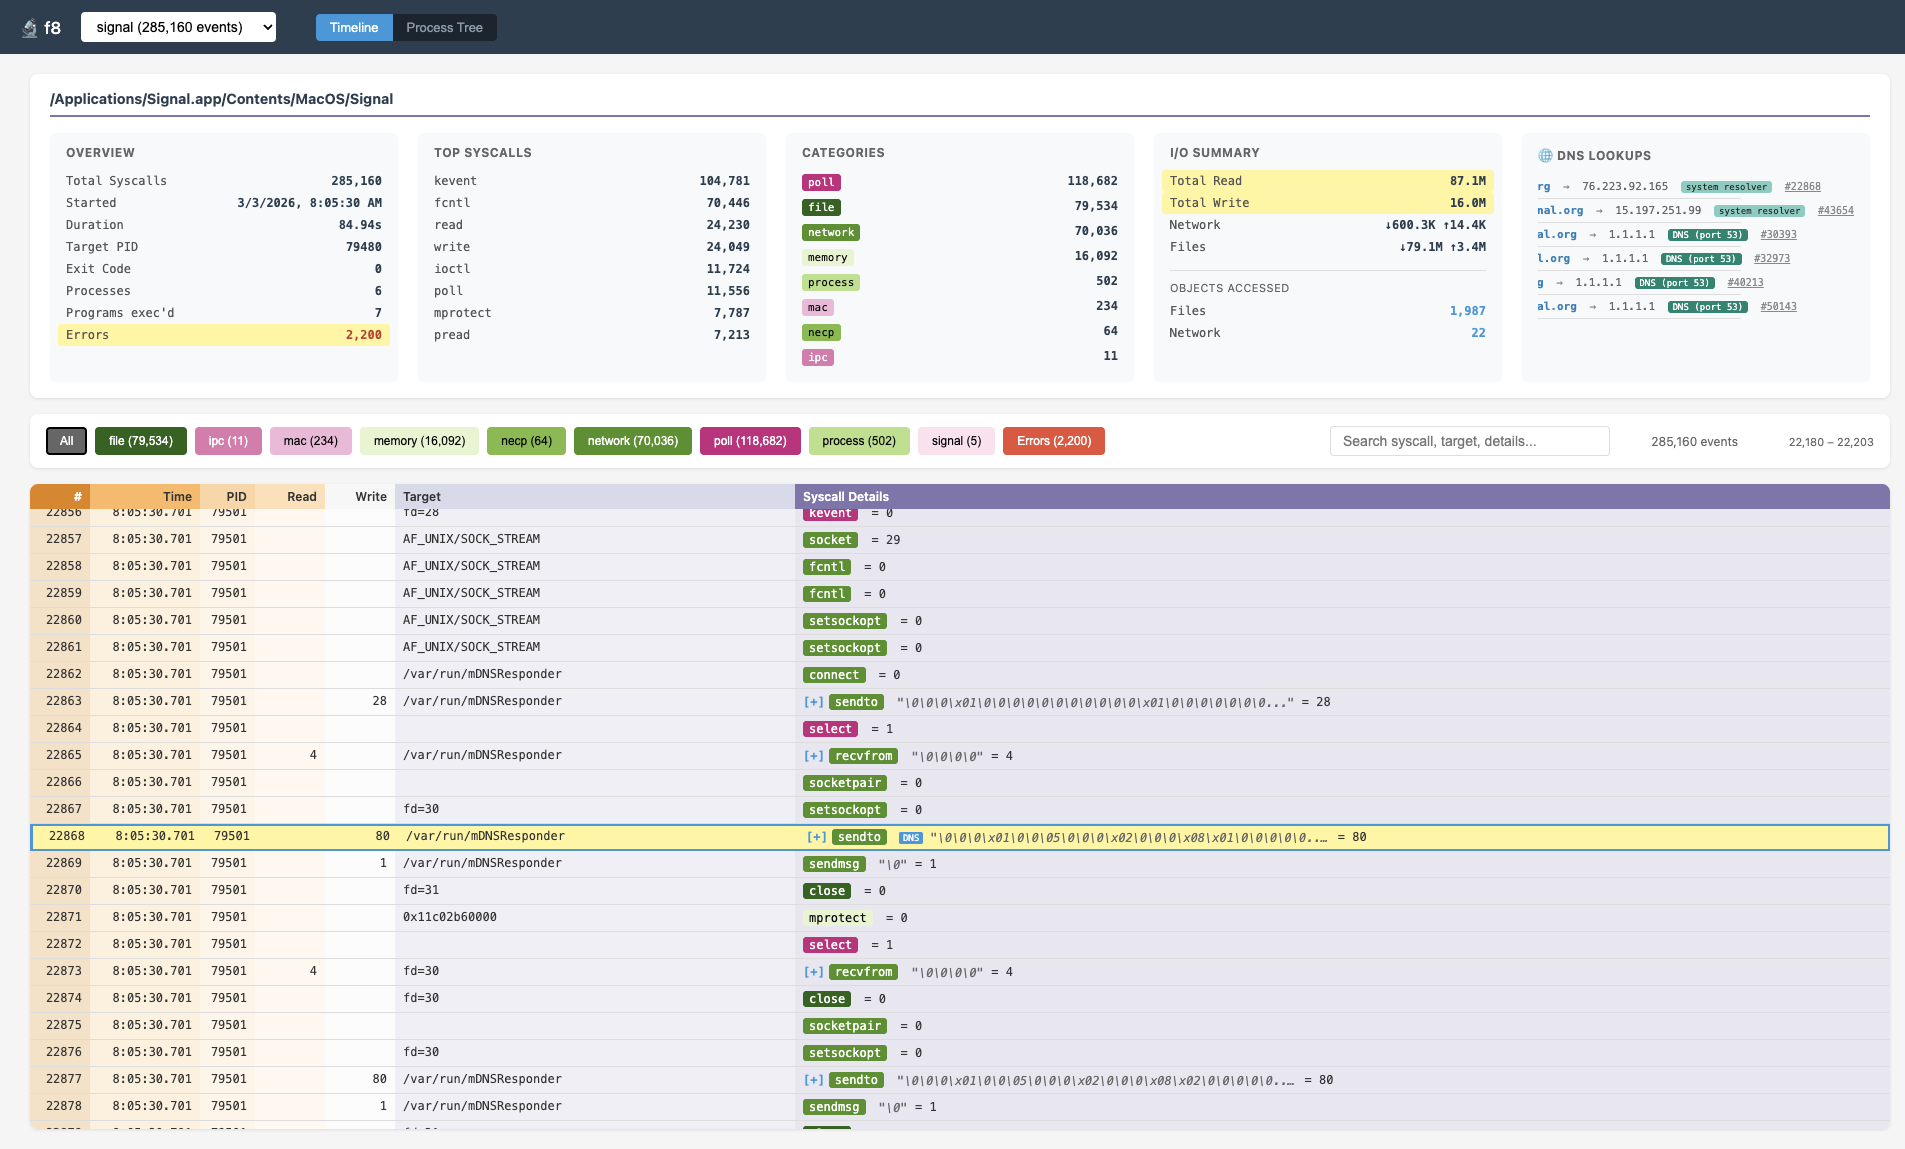
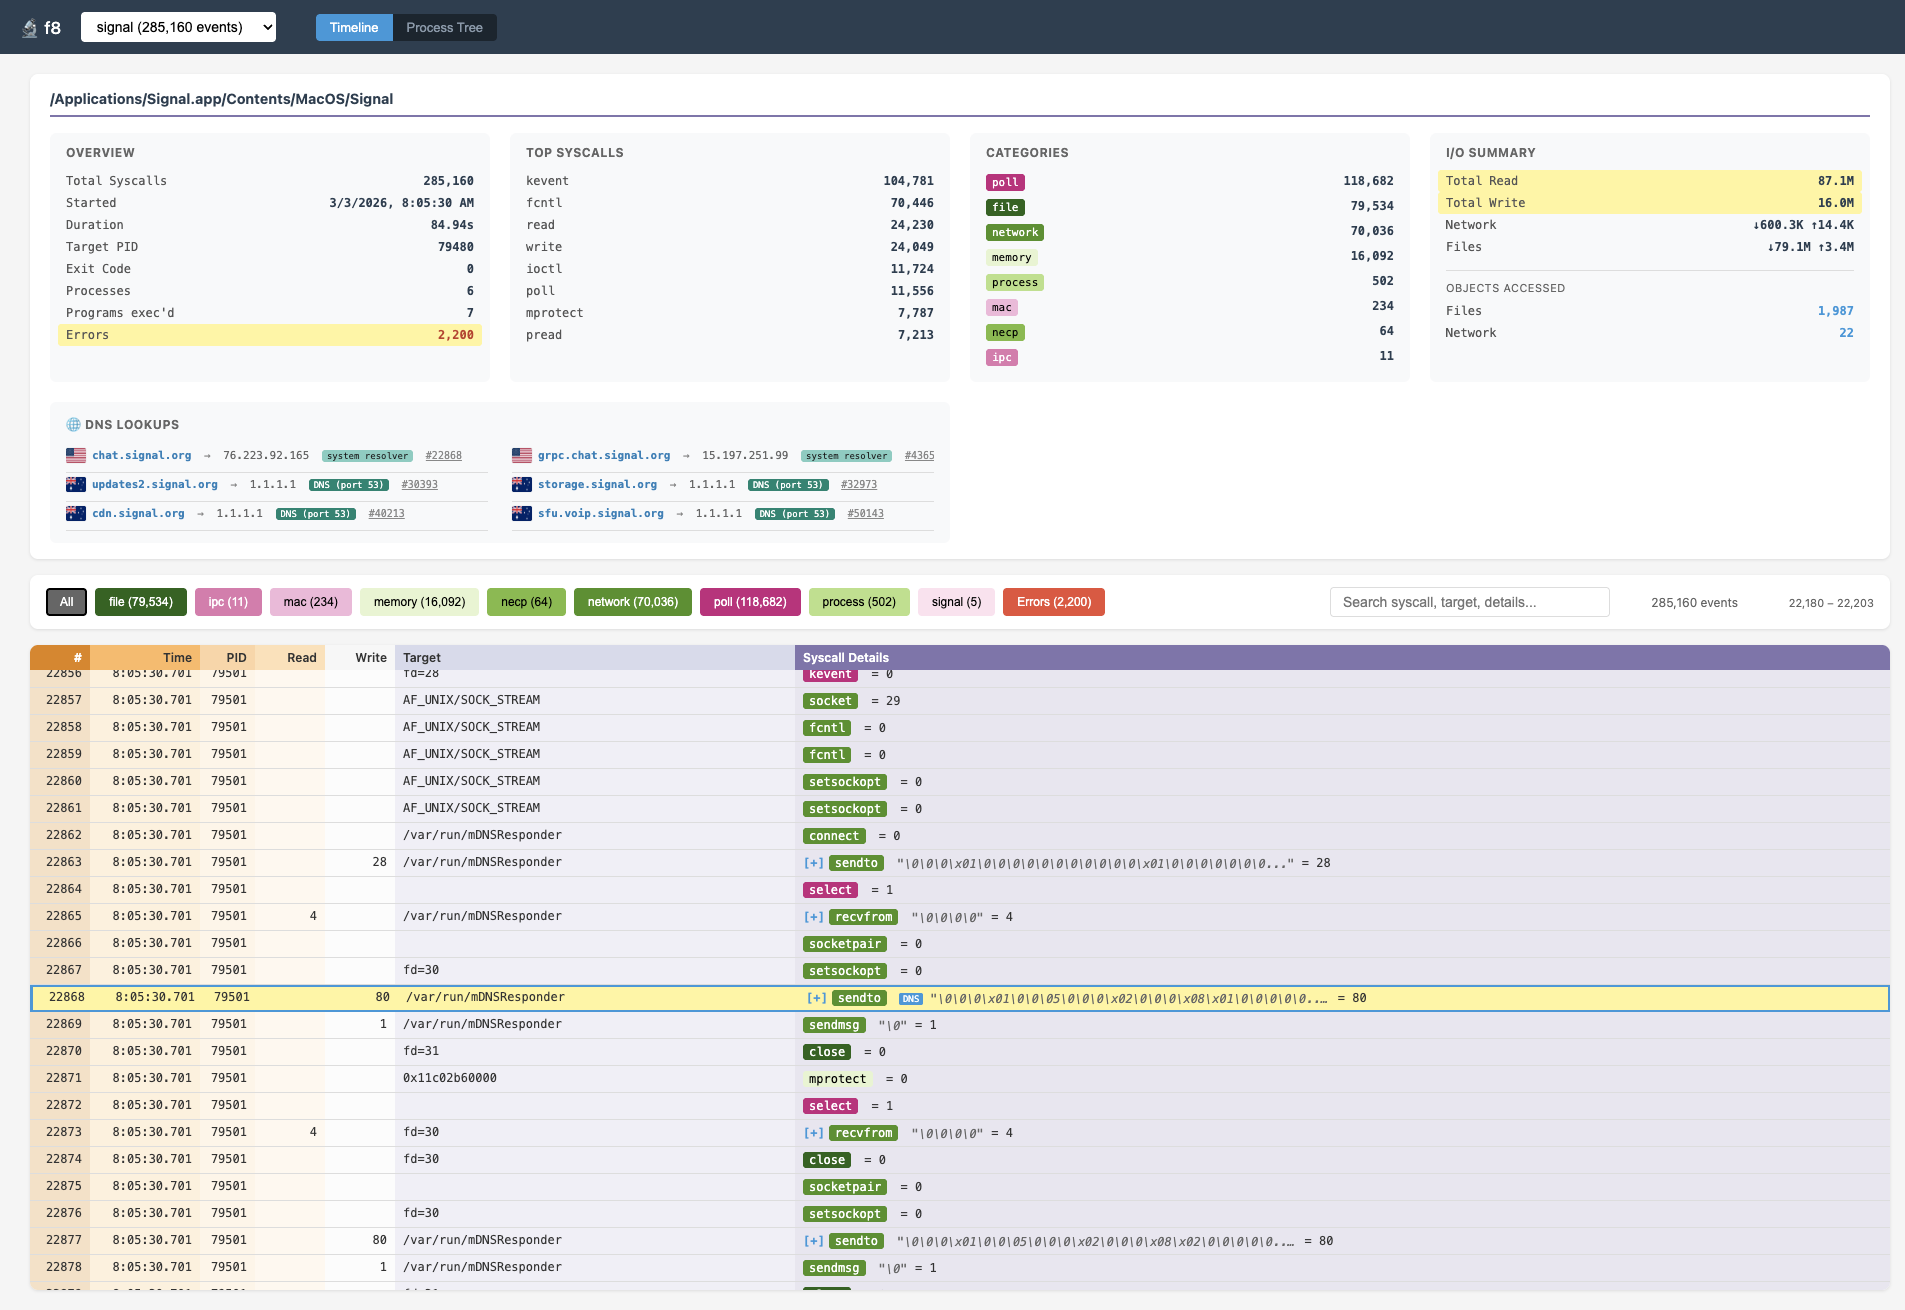
Widen DNS panel to span 2 columns, retake screenshots
DNS Lookups card now uses grid-column: span 2 with a 2-column
sub-grid (minmax 420px) so all hostnames, IPs, badges, and seq
links fit on one line without truncation.

Screenshots retaken at 1920px width showing full DNS panel.

diff --git a/server/public/index.html b/server/public/index.html
@@ -179,6 +179,14 @@
             padding: 3px 0;
             white-space: nowrap;
         }
+        .summary-card.dns-card {
+            grid-column: span 2;
+        }
+        .summary-card.dns-card ul {
+            display: grid;
+            grid-template-columns: repeat(auto-fill, minmax(420px, 1fr));
+            gap: 0 24px;
+        }
         .summary-card li.error { color: var(--c-error); }
         .tag { 
             display: inline-block;
@@ -1181,7 +1189,7 @@
                 </div>
                 
                 ${t.dnsLookups && t.dnsLookups.length > 0 ? `
-                <div class="summary-card">
+                <div class="summary-card dns-card">
                     <h3>🌐 DNS Lookups</h3>
                     <ul>
                         ${t.dnsLookups.map(d => {
